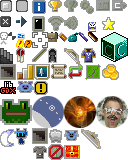
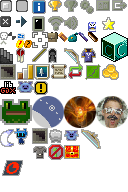
1.2.0c: implemented "realtime" mode

diff --git a/core/src/main/java/com/shatteredpixel/shatteredpixeldungeon/scenes/GameScene.java b/core/src/main/java/com/shatteredpixel/shatteredpixeldungeon/scenes/GameScene.java
@@ -87,6 +87,9 @@ public class GameScene extends PixelScene {
 	
 	private BusyIndicator busy;
 	private CircleArc counter;
+
+	public static boolean timerPaused = true;
+	public static double timer = 0.25;
 	
 	private static CellSelector cellSelector;
 	
@@ -450,7 +453,11 @@ public class GameScene extends PixelScene {
 		}
 
 		fadeIn();
+		resetTimer();
+	}
 
+	private void resetTimer() {
+		timer = 0.33;
 	}
 	
 	public void destroy() {
@@ -503,7 +510,15 @@ public class GameScene extends PixelScene {
 		}
 
 		super.update();
-		
+
+		if (!timerPaused && Dungeon.mode == Dungeon.GameMode.REALTIME && Dungeon.hero.ready) {
+			timer -= Game.elapsed;
+			if (timer <= 0 && Dungeon.hero.isAlive()) {
+				Dungeon.hero.spendAndNext(1f);
+				resetTimer();
+			}
+		}
+
 		if (!Emitter.freezeEmitters) water.offset( 0, -5 * Game.elapsed );
 
 		if (!Actor.processing() && Dungeon.hero.isAlive()) {
@@ -975,6 +990,7 @@ public class GameScene extends PixelScene {
 			cellSelector.listener.onSelect(null);
 		}
 		cellSelector.listener = listener;
+		GameScene.timerPaused = true;
 		if (scene != null)
 			scene.prompt( listener.prompt() );
 	}
@@ -1026,6 +1042,10 @@ public class GameScene extends PixelScene {
 		selectCell( defaultCellListener );
 		QuickSlotButton.cancel();
 		if (scene != null && scene.toolbar != null) scene.toolbar.examining = false;
+		if(Dungeon.hero.ready) {
+			timerPaused = false;
+			if (scene != null) scene.resetTimer();
+		}
 	}
 
 	public static void checkKeyHold(){

diff --git a/core/src/main/java/com/shatteredpixel/shatteredpixeldungeon/windows/WndGame.java b/core/src/main/java/com/shatteredpixel/shatteredpixeldungeon/windows/WndGame.java
@@ -34,6 +34,8 @@ import com.shatteredpixel.shatteredpixeldungeon.ui.Icons;
 import com.shatteredpixel.shatteredpixeldungeon.ui.RedButton;
 import com.shatteredpixel.shatteredpixeldungeon.ui.Window;
 import com.watabou.noosa.Game;
+import com.watabou.noosa.Gizmo;
+import com.watabou.noosa.Visual;
 
 import java.io.IOException;
 
@@ -48,6 +50,8 @@ public class WndGame extends Window {
 	public WndGame() {
 		
 		super();
+
+		GameScene.timerPaused = true;
 
 		RedButton curBtn;
 		addButton( curBtn = new RedButton( Messages.get(this, "settings") ) {
@@ -144,6 +148,14 @@ public class WndGame extends Window {
 		} );
 		
 		resize( WIDTH, pos );
+
+		if (Dungeon.mode == Dungeon.GameMode.REALTIME) {
+			for (Gizmo giz : Game.scene().members) {
+				if (giz instanceof Visual) {
+					((Visual) giz).hardlight(0xd1d1d1);
+				}
+			}
+		}
 	}
 	
 	private void addButton( RedButton btn ) {
@@ -158,5 +170,26 @@ public class WndGame extends Window {
 		add( btn2 );
 		btn2.setRect( btn1.right() + GAP, btn1.top(), WIDTH - btn1.right() - GAP, BTN_HEIGHT );
 		pos += BTN_HEIGHT;
+	}
+
+	@Override
+	public void hide() {
+		for (Gizmo giz : Game.scene().members){
+			if (giz instanceof Visual){
+				((Visual) giz).resetColor();
+			}
+		}
+		super.hide();
+	}
+
+	@Override
+	public void onBackPressed() {
+		for (Gizmo giz : Game.scene().members){
+			if (giz instanceof Visual){
+				((Visual) giz).resetColor();
+			}
+		}
+		GameScene.timerPaused = false;
+		super.onBackPressed();
 	}
 }

diff --git a/core/src/main/java/com/shatteredpixel/shatteredpixeldungeon/Dungeon.java b/core/src/main/java/com/shatteredpixel/shatteredpixeldungeon/Dungeon.java
@@ -143,7 +143,8 @@ public class Dungeon {
 		GAUNTLET("gauntlet", Icons.GAUNTLET),
 		EXPLORE( "explore", Icons.EXPLORE),
 		NO_SOU("no_sou", Icons.SOULLESS),
-		HELL("hell", Icons.HELL_CHEST);
+		HELL("hell", Icons.HELL_CHEST),
+		REALTIME("realtime", Icons.REAL_TIME);
 
 		public String saveName;
 		public Icons icon;
@@ -403,6 +404,7 @@ public class Dungeon {
 		hero.curAction = hero.lastAction = null;
 
 		observe();
+		GameScene.timer += 10;
 		try {
 			saveAll();
 		} catch (IOException e) {

diff --git a/core/src/main/java/com/shatteredpixel/shatteredpixeldungeon/scenes/CellSelector.java b/core/src/main/java/com/shatteredpixel/shatteredpixeldungeon/scenes/CellSelector.java
@@ -276,7 +276,7 @@ public class CellSelector extends ScrollArea {
 			//each step when keyboard moving takes 0.15s, 0.125s, 0.1s, 0.1s, ...
 			// this is to make it easier to move 1 or 2 steps without overshooting
 			CharSprite.setMoveInterval( CharSprite.DEFAULT_MOVE_INTERVAL +
-			                            Math.max(0, 0.05f - heldTurns *0.025f));
+									Math.max(0, 0.05f - heldTurns *0.025f));
 			select(cell);
 			return true;
 

diff --git a/core/src/main/java/com/shatteredpixel/shatteredpixeldungeon/actors/buffs/Hunger.java b/core/src/main/java/com/shatteredpixel/shatteredpixeldungeon/actors/buffs/Hunger.java
@@ -95,6 +95,7 @@ public class Hunger extends Buff implements Hero.Doom {
             return;
         }
         if (Dungeon.hero.heroClass == HeroClass.WARRIOR && energy != -50 && energy < 0) energy *= 0.75f;
+		if (Dungeon.mode == Dungeon.GameMode.REALTIME) energy *= 0.5f;
 		hunger.level = Math.max(hunger.level - energy, 0);
 		switchHungerLevel(energy, hunger, target);
 		BuffIndicator.refreshHero();

diff --git a/core/src/main/java/com/shatteredpixel/shatteredpixeldungeon/ui/Icons.java b/core/src/main/java/com/shatteredpixel/shatteredpixeldungeon/ui/Icons.java
@@ -84,6 +84,7 @@ public enum Icons {
 	EXPLORE,
 	SOULLESS,
 	HELL_CHEST,
+	REAL_TIME,
 	
 	//misc icons
 	LIBGDX,
@@ -280,6 +281,9 @@ public enum Icons {
 			break;
 		case HELL_CHEST:
 			icon.frame( icon.texture.uvRect( 64, 145, 80, 159 ) );
+			break;
+		case REAL_TIME:
+			icon.frame( icon.texture.uvRect( 2, 160, 24, 176 ) );
 			break;
 
 		}

diff --git a/core/src/main/java/com/shatteredpixel/shatteredpixeldungeon/sprites/CharSprite.java b/core/src/main/java/com/shatteredpixel/shatteredpixeldungeon/sprites/CharSprite.java
@@ -204,6 +204,7 @@ public class CharSprite extends MovieClip implements Tweener.Listener, MovieClip
 		play( run );
 		
 		motion = new PosTweener( this, worldToCamera( to ), moveInterval );
+		if (Dungeon.mode == Dungeon.GameMode.REALTIME) motion.interval *= 0.5f;
 		motion.listener = this;
 		parent.add( motion );
 

diff --git a/core/src/main/java/com/shatteredpixel/shatteredpixeldungeon/actors/Char.java b/core/src/main/java/com/shatteredpixel/shatteredpixeldungeon/actors/Char.java
@@ -590,6 +590,7 @@ public abstract class Char extends Actor {
 		}
 
 		float fpsMod = 1f;
+		if (Dungeon.mode == Dungeon.GameMode.REALTIME) fpsMod = 0.5f;
 		if (timeScale < 1f) fpsMod /= 0.75f * timeScale;
 
 		if (sprite != null) sprite.setAnimSpeed(fpsMod);

diff --git a/SPD-classes/src/main/java/com/watabou/noosa/Group.java b/SPD-classes/src/main/java/com/watabou/noosa/Group.java
@@ -31,7 +31,7 @@ import java.util.ArrayList;
 
 public class Group extends Gizmo {
 
-	protected ArrayList<Gizmo> members;
+	public ArrayList<Gizmo> members;
 	
 	// Accessing it is a little faster,
 	// than calling members.getSize()

diff --git a/core/src/main/java/com/shatteredpixel/shatteredpixeldungeon/actors/hero/Hero.java b/core/src/main/java/com/shatteredpixel/shatteredpixeldungeon/actors/hero/Hero.java
@@ -683,6 +683,7 @@ public class Hero extends Char {
 	
 	public void busy() {
 		ready = false;
+		GameScene.timerPaused=true;
 	}
 	
 	private void ready() {
